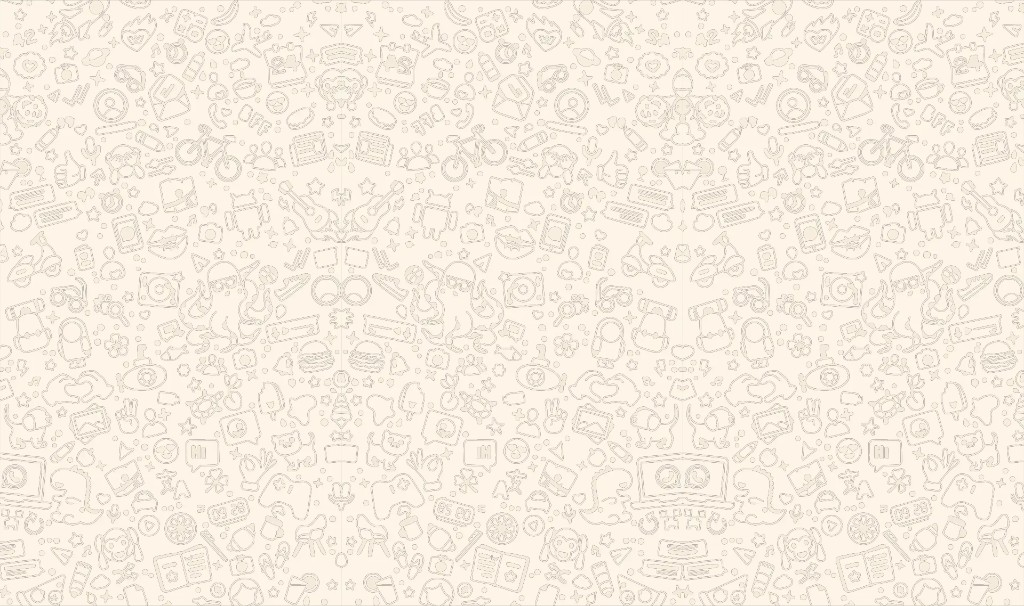
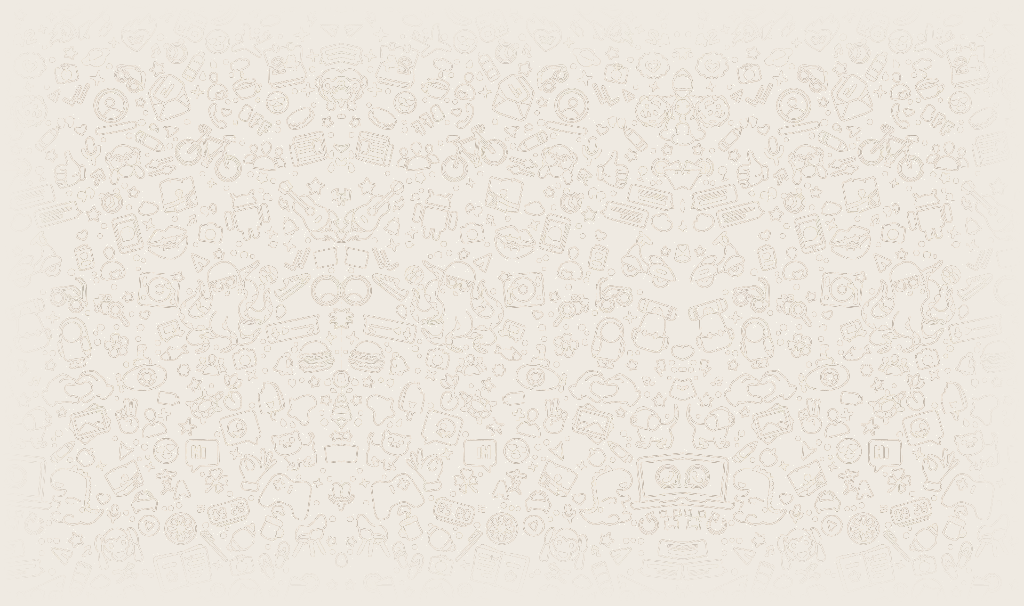
style: fondo chat sin uniones (cover + bordes suaves)

diff --git a/src/index.css b/src/index.css
@@ -319,12 +319,13 @@ html[data-ahorro='1'] .trazo-marca { background: #f59e0b; }
 
 .chat-wa-fondo {
   background-color: var(--wa-fondo);
-  /* Mosaico más grande + velo del color de fondo para que no se noten las uniones */
+  /* Una sola capa cover (sin mosaico) + velo: cero uniones visibles */
   background-image:
-    linear-gradient(color-mix(in srgb, var(--wa-fondo) 58%, transparent), color-mix(in srgb, var(--wa-fondo) 58%, transparent)),
+    linear-gradient(color-mix(in srgb, var(--wa-fondo) 42%, transparent), color-mix(in srgb, var(--wa-fondo) 42%, transparent)),
     url('/chat/wa-wallpaper-light.png');
-  background-repeat: repeat;
-  background-size: auto, 480px 284px;
+  background-repeat: no-repeat;
+  background-position: center;
+  background-size: cover;
 }
 
 .chat-wa-burbuja {
@@ -637,7 +638,7 @@ html[data-ahorro='1'].dark .chat-wa {
 
 .dark .chat-wa-fondo {
   background-image:
-    linear-gradient(color-mix(in srgb, var(--wa-fondo) 62%, transparent), color-mix(in srgb, var(--wa-fondo) 62%, transparent)),
+    linear-gradient(color-mix(in srgb, var(--wa-fondo) 48%, transparent), color-mix(in srgb, var(--wa-fondo) 48%, transparent)),
     url('/chat/wa-wallpaper-dark.png');
 }
 
